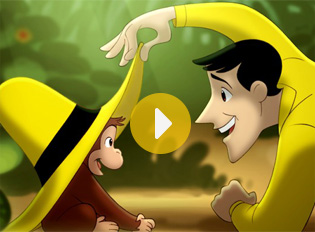
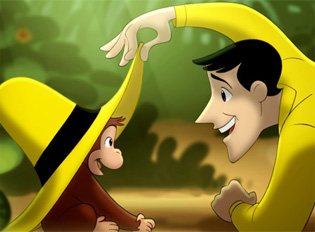
responsive

Changed region(s): [[0.4, 0.3922, 0.6286, 0.6638]]

diff --git a/desktop.css b/desktop.css
@@ -186,6 +186,10 @@ body {
     cursor: pointer;
 }
 
+.header .slider-controls .limit {
+    background: #cca80e;
+}
+
 .header .slider-controls .ahead {
     right: -13.7%;
     top: 132px;
@@ -243,6 +247,13 @@ to {
     background: #ffce0b;
 }
 
+.header .slider-controls .ahead.limit:hover,
+.header .slider-controls .back.limit:hover {
+    -webkit-animation: none;
+    animation: none;
+    background: #cca80e;
+}
+
 .header .slider .slide {
     display: block;
 }
@@ -268,12 +279,12 @@ to {
 }
 
 .header .slider .slide-video .play-btn-first {
-    display: inline-block;
-    position: relative;
+    display: block;
+    position: absolute;
     width: 64px;
     height: 64px;
-    margin-left: 43.89%;
-    margin-top: 130px;
+    left: 43.89%;
+    top: 130px;
     border-radius: 50%;
     background-color: rgba(245, 197, 6, 0.72);
     cursor: pointer;
@@ -281,10 +292,10 @@ to {
     -moz-transition: 0.2s;
     -o-transition: 0.2s;
     transition-duration: 0.2s;
-    -webkit-transition-property: transform;
-    -moz-transition-property: transform;
-    -o-transition-property: transform;
-    transition-property: transform;
+    -webkit-transition-property: transform, background;
+    -moz-transition-property: transform, background;
+    -o-transition-property: transform, background;
+    transition-property: transform, background;
 }
 
 .header .slider .slide-video .play-btn-first .img-services {
@@ -305,7 +316,54 @@ to {
 }
 
 .header .slider .slide-video .play-btn-second {
+    display: block;
+    position: absolute;
+    width: 27px;
+    height: 27px;
+    top: 278px;
+    left: 5.28%;
+    background: rgba(245, 197, 6, 0.37);
+    cursor: pointer;
+}
+
+.header .slider .slide-video .play-btn-second .img-services {
+    display: block;
+    position: absolute;
+    width: 10px;
+    height: 17px;
+    top: 5px;
+    left: 10px;
+    background-position: -18px -9px;
+}
     
+.header .slider .slide-video .time-band {
+    display: block;
+    position: absolute;
+    width: 73.58%;
+    height: 12px;
+    top: 286px;
+    left: 14.57%;
+    background: rgba(245, 197, 6, 0.28);
+    border-radius: 4px;
+    cursor: pointer;
+}
+
+.header .slider .slide-video .sound {
+    display: block;
+    position: absolute;
+    width: 15px;
+    height: 15px;
+    top: 285px;
+    right: 19px;
+    cursor: pointer;
+}
+
+.header .slider .slide-video .sound .img-services {
+    display: block;
+    position: absolute;
+    width: 15px;
+    height: 15px;
+    background-position: -28px -9px;
 }
 
 .header .slider .slide-video .play-btn-first:hover {
@@ -313,15 +371,18 @@ to {
     -moz-transform: scale(1.05);
     -o-transform: scale(1.05);
     transform: scale(1.05);
-    background-color: rgba(245, 197, 6, 0.5);
+    background-color: rgba(245, 197, 6, 0.9);
 }
-
+   
 .header .slider .slide-video .play-btn-first:hover .img-services {
     width: 19px;
     height: 34px;
     background-position: -43px 0;
 }
 
+.header .slider .slide-video .play-btn-second:hover {
+    background: rgba(245, 197, 6, 0.5);
+}
 
 .header .slider .slide-text {
     float: left;
@@ -485,10 +546,50 @@ to {
 
 .content .slide .slide-video {
     float: left;
+    position: relative;
     width: 30.88%;
     height: 232px;
     margin-right: 3.33%;
     background: url(img/comp/content/video.jpg) no-repeat;
+}
+
+.content .slide .slide-video .play-video {
+    display: block;
+    position: absolute;
+    width: 61px;
+    height: 61px;
+    top:  93px;
+    left: 41.26%;
+    background: rgba(245, 197, 6, 0.72);
+    border-radius: 50%;
+    cursor: pointer;
+    -webkit-transition-duration: 0.2s;
+    -moz-transition: 0.2s;
+    -o-transition: 0.2s;
+    transition-duration: 0.2s;
+    -webkit-transition-property: background;
+    -moz-transition-property: background;
+    -o-transition-property: background;
+    transition-property: background;
+}
+
+.content .slide .slide-video .play-video .play {
+    display: block;
+    position: absolute;
+    width: 18px;
+    height: 31px;
+    top: 15px;
+    left: 25px;
+    background: url(img/comp/content/play-video.png) no-repeat;
+    opacity: 0.9;
+}
+
+.content .slide .slide-video .play-video:hover {
+    background: rgba(245, 197, 6, 0.9);
+}
+
+.content .slide .slide-video .play-video:hover .play {
+    opacity: 1;
 }
 
 .content .slide .twitter {

diff --git a/index.html b/index.html
@@ -28,7 +28,7 @@
                 <div class="clearfix"></div>
                 <div class="slider">
                     <div class="slider-controls">
-                        <div class="back"><div class="slider-img"></div></div>
+                        <div class="back limit"><div class="slider-img"></div></div>
                         <div class="ahead"><div class="slider-img"></div></div>
                     </div>
                     <div class="slide">
@@ -71,7 +71,7 @@
                     <h2>Lorem ipsum dolor sit amet</h2>
                     <div class="slide">
                         <div class="text">Lorem ipsum dolor sit amet, consectetur adipisicing elit, sed do eiusmod tempor incididunt ut</div>
-                        <div class="slide-video"></div>
+                        <div class="slide-video"><div class="play-video"><span class="play"></span></div></div>
                         <div class="twitter"></div>
                         <div class="date">
                             <div class="number">25</div>
@@ -92,8 +92,8 @@
                     <h2>Lorem ipsum dolor sit amet</h2>
                     <div class="img"></div>
                     <ul class="text-cap">
-                        <li>Sgdfsgsded ut perspiciatis unde omnis</li>
-                        <li>fsdfsdfdsfsdfsdfsdLorem ipsum dolor sit amet, consectetur adipisicing </li>
+                        <li>Sed ut perspiciatis unde omnis</li>
+                        <li>Lorem ipsum dolor sit amet, consectetur adipisicing </li>
                         <li>Sed ut perspiciatis unde omnis</li>
                         <li>Lorem ipsum dolor sit amet, consectetur adipisicing </li>
                     </ul>
